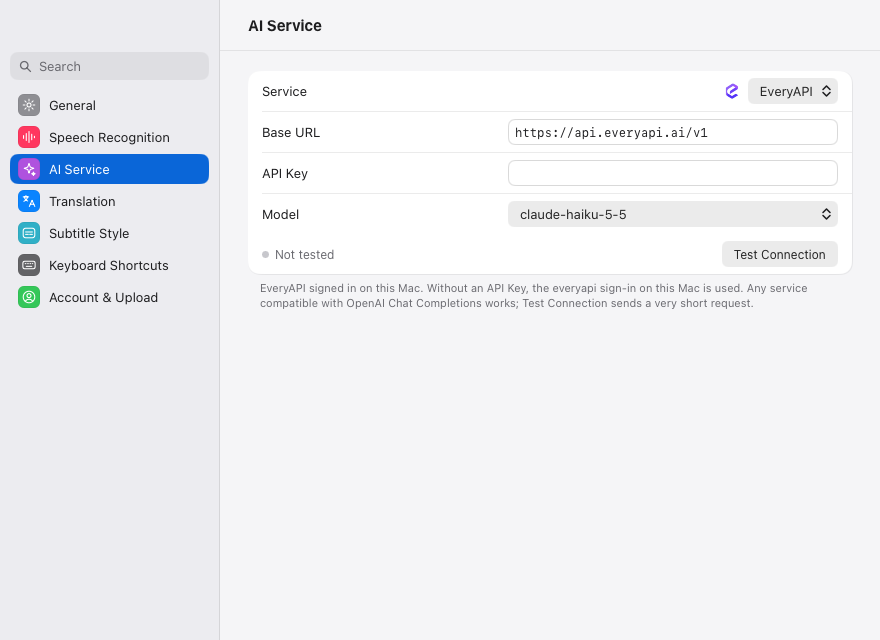
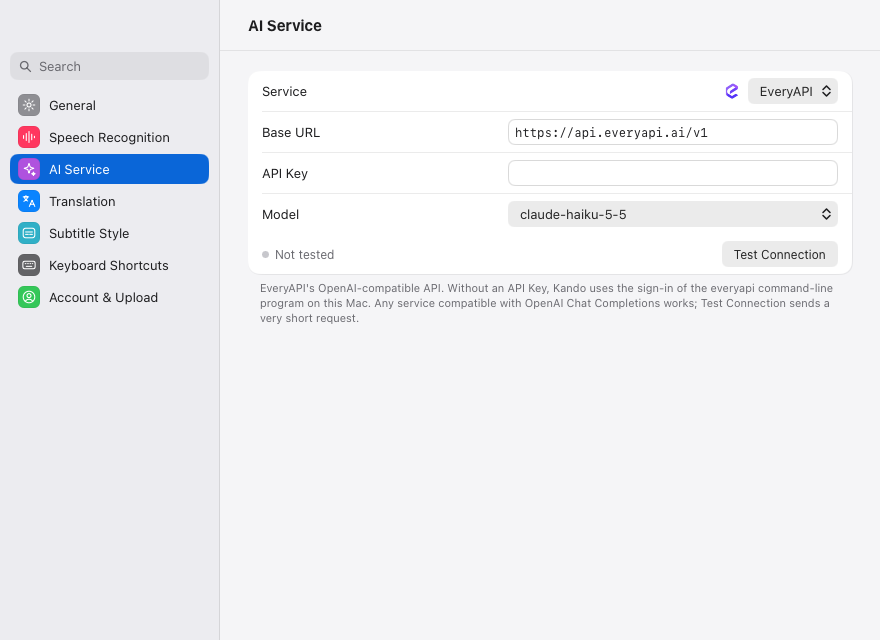
fix(settings): tell everyapi failures apart, keep only the last open error, and refresh the README AI page
- A sign-in that fails for a reason other than a missing or signed-out everyapi (a timeout, a crash, an unknown credential version) now says so in the sidebar and shows what the program said on the AI page, instead of telling the user to run everyapi auth login.
- 获取 EveryAPI keeps only the last press's error, and 重新检测 clears it, so the row says what the program needs now.
- The EveryAPI preset blurb no longer claims a sign-in, which contradicted the missing and signed-out rows.
- Failed cards: tests for a missing everyapi, a signed-out one and the text older library.json records keep.
- docs/assets/*/settings-ai.png regenerated for the new footnote.

Changed region(s): [[0.3068, 0.4375, 0.9511, 0.5]]

diff --git a/apps/kando/locales/catalog_gen.go b/apps/kando/locales/catalog_gen.go
@@ -7038,6 +7038,30 @@ func (msgs Messages) PrecheckEmpty() string {
 	return Catalog.Format(msgs.locale, "precheckEmpty", nil)
 }
 
+// PrecheckEveryAPIFailed says "Couldn't get the sign-in from the everyapi command-line program; see “AI Service”"
+// in the language the app shows.
+//
+// Message bar, the sidebar's status line, the first-run guide and the
+// command palette when the AI service is EveryAPI with no API Key and
+// asking the everyapi command-line program for its sign-in failed for a
+// reason other than it being missing or signed out (it timed out, crashed
+// or answered in a form Kando does not understand). The AI Service page
+// says why. everyapi is the program's name and stays as it is.
+func PrecheckEveryAPIFailed() string { return In(i18n.Locale()).PrecheckEveryAPIFailed() }
+
+// PrecheckEveryAPIFailed says "Couldn't get the sign-in from the everyapi command-line program; see “AI Service”"
+// in the language of msgs.
+//
+// Message bar, the sidebar's status line, the first-run guide and the
+// command palette when the AI service is EveryAPI with no API Key and
+// asking the everyapi command-line program for its sign-in failed for a
+// reason other than it being missing or signed out (it timed out, crashed
+// or answered in a form Kando does not understand). The AI Service page
+// says why. everyapi is the program's name and stays as it is.
+func (msgs Messages) PrecheckEveryAPIFailed() string {
+	return Catalog.Format(msgs.locale, "precheckEveryAPIFailed", nil)
+}
+
 // PrecheckEveryAPIMissing says "Translation needs the everyapi command-line program, or an API Key in “AI Service”"
 // in the language the app shows.
 //
@@ -8946,14 +8970,14 @@ func (msgs Messages) SettingsAIBlurbDeepSeek() string {
 	return Catalog.Format(msgs.locale, "settingsAIBlurbDeepSeek", nil)
 }
 
-// SettingsAIBlurbEveryAPI says "EveryAPI signed in on this Mac"
+// SettingsAIBlurbEveryAPI says "EveryAPI's OpenAI-compatible API"
 // in the language the app shows.
 //
 // What the EveryAPI service is, at the start of the footnote. A phrase; the
 // footnote ends it with a period.
 func SettingsAIBlurbEveryAPI() string { return In(i18n.Locale()).SettingsAIBlurbEveryAPI() }
 
-// SettingsAIBlurbEveryAPI says "EveryAPI signed in on this Mac"
+// SettingsAIBlurbEveryAPI says "EveryAPI's OpenAI-compatible API"
 // in the language of msgs.
 //
 // What the EveryAPI service is, at the start of the footnote. A phrase; the
@@ -9160,6 +9184,26 @@ func SettingsAIEveryAPICLI() string { return In(i18n.Locale()).SettingsAIEveryAP
 // missing or signed out. everyapi is the program's name.
 func (msgs Messages) SettingsAIEveryAPICLI() string {
 	return Catalog.Format(msgs.locale, "settingsAIEveryAPICLI", nil)
+}
+
+// SettingsAIEveryAPIFailed says "Couldn't get the sign-in from it: {error}. Choose Detect Again to try again."
+// in the language the app shows.
+//
+// Under the everyapi command line row when asking the program for its
+// sign-in failed for a reason other than it being missing or signed out.
+// Detect Again is the button beside it (settingsAIRedetect).
+func SettingsAIEveryAPIFailed(error string) string {
+	return In(i18n.Locale()).SettingsAIEveryAPIFailed(error)
+}
+
+// SettingsAIEveryAPIFailed says "Couldn't get the sign-in from it: {error}. Choose Detect Again to try again."
+// in the language of msgs.
+//
+// Under the everyapi command line row when asking the program for its
+// sign-in failed for a reason other than it being missing or signed out.
+// Detect Again is the button beside it (settingsAIRedetect).
+func (msgs Messages) SettingsAIEveryAPIFailed(error string) string {
+	return Catalog.Format(msgs.locale, "settingsAIEveryAPIFailed", map[string]any{"error": error})
 }
 
 // SettingsAIEveryAPIMissing says "Not found on this Mac. Get it from everyapi.ai, then choose Detect Again."

diff --git a/apps/kando/settings_ai_test.go b/apps/kando/settings_ai_test.go
@@ -8,9 +8,11 @@ import (
 	"os"
 	"path/filepath"
 	"slices"
+	"strings"
 	"sync"
 	"testing"
 
+	"kando/apps/kando/films"
 	"kando/apps/kando/locales"
 	"kando/apps/kando/settings"
 	"kando/packages/media"
@@ -307,5 +309,72 @@ func TestGetEveryAPIOpensItsWebsite(t *testing.T) {
 	page.Frame()
 	if want := locales.SettingsAIEveryAPIOpenFailed("no browser"); !page.HasText(want) {
 		t.Fatalf("missing %q in %q", want, page.Texts())
+	}
+
+	// 重新检测 looks for the program again, so the row says what it needs now rather than why the website could not be opened before. The tools are not looked up here, as redetectTools would, because Relook also looks in Homebrew's folders, where this computer may have a real everyapi.
+	a.areasToolsChanged(true)
+	page.Frame()
+	if a.prefs.everyAPIOpenErr != "" || !page.HasText(locales.SettingsAIEveryAPIMissing()) {
+		t.Fatalf("after 重新检测: error %q, texts %q", a.prefs.everyAPIOpenErr, page.Texts())
+	}
+}
+
+// TestGetEveryAPIKeepsOnlyTheLastPress checks that a press of 获取 EveryAPI whose browser answers late, with an error, after a later press opened the website, does not put its error on the page.
+func TestGetEveryAPIKeepsOnlyTheLastPress(t *testing.T) {
+	entered, release := make(chan struct{}), make(chan struct{})
+	var mu sync.Mutex
+	calls := 0
+	saved := everyAPIOpenURL
+	everyAPIOpenURL = func(string) error {
+		mu.Lock()
+		calls++
+		first := calls == 1
+		mu.Unlock()
+		if !first {
+			return nil
+		}
+		close(entered)
+		<-release
+		return errors.New("slow browser")
+	}
+	t.Cleanup(func() { everyAPIOpenURL = saved })
+	a, tt, updates, _ := everyAPIApp(t)
+	page := settingsOpenAt(a, tt, settings.SectionAI)
+	if err := page.Click(locales.SettingsAIGetEveryAPI()); err != nil {
+		t.Fatal(err)
+	}
+	<-entered
+	if err := page.Click(locales.SettingsAIGetEveryAPI()); err != nil {
+		t.Fatal(err)
+	}
+	waitUpdate(t, updates)
+	close(release)
+	waitUpdate(t, updates)
+	page.Frame()
+	if a.prefs.everyAPIOpenErr != "" || page.HasText(locales.SettingsAIEveryAPIOpenFailed("slow browser")) {
+		t.Fatalf("the earlier press's error stayed: %q, texts %q", a.prefs.everyAPIOpenErr, page.Texts())
+	}
+}
+
+// TestEveryAPICLIThatFailsOtherwiseSaysWhat checks that an everyapi that fails for a reason other than nobody being signed in, as a crash, is not reported as signed out: the sidebar points to Settings › AI 服务, which says what the program said.
+func TestEveryAPICLIThatFailsOtherwiseSaysWhat(t *testing.T) {
+	a, tt, updates, bin := everyAPIApp(t)
+	writeFakeScript(t, bin, "everyapi", "echo 'everyapi: config file is corrupt' >&2\nexit 2")
+	a.redetectTools()
+	waitUntil(t, updates, func() bool { return a.side.ready.signInDone })
+	tt.Frame()
+	err := a.side.ready.signInErr
+	if err == nil || errors.Is(err, media.ErrEveryAPISignedOut) || errors.Is(err, media.ErrEveryAPIMissing) {
+		t.Fatalf("sign-in error %v, want another failure", err)
+	}
+	if !tt.HasText(everyAPIFailed()) || tt.HasText(everyAPISignedOut()) {
+		t.Fatalf("sidebar: want %q, texts %q", everyAPIFailed(), tt.Texts())
+	}
+	page := settingsOpenAt(a, tt, settings.SectionAI)
+	if want := locales.SettingsAIEveryAPIFailed(films.Shorten(err.Error(), 160)); !page.HasText(want) || page.HasText(locales.SettingsAIEveryAPISignedOut()) || page.HasText(locales.SettingsAIGetEveryAPI()) {
+		t.Fatalf("AI page: want %q, texts %q", want, page.Texts())
+	}
+	if !strings.Contains(err.Error(), "config file is corrupt") {
+		t.Fatalf("sign-in error %v does not say what the program said", err)
 	}
 }

diff --git a/apps/kando/library_test.go b/apps/kando/library_test.go
@@ -4,6 +4,7 @@ import (
 	"bytes"
 	"context"
 	"errors"
+	"fmt"
 	"image"
 	"image/color"
 	"image/draw"
@@ -792,16 +793,32 @@ func TestNoticeOpensTheSettingThatFixesIt(t *testing.T) {
 }
 
 func TestFailedCardOpensTheSettingThatFixesIt(t *testing.T) {
-	a, tt, _ := newTestApp(&fakePipeline{})
-	a.library.Jobs = []core.Job{{ID: "j", Source: "https://youtu.be/TRWgBxVAb1M", Stage: core.StageFailed, Err: errors.New("check: KANDO_WHISPER_MODEL is not set"), LibraryDir: "/videos"}}
-	tt.Frame()
-	if !tt.HasText(locales.PrecheckNoSpeechModel()) || !tt.HasText("1 个需要处理") {
-		t.Fatalf("texts %q", tt.Texts())
+	for _, tc := range []struct {
+		name    string
+		err     error
+		reason  func() string
+		section string
+	}{
+		{"speech model", errors.New("check: KANDO_WHISPER_MODEL is not set"), locales.PrecheckNoSpeechModel, settings.SectionSpeech},
+		{"everyapi missing at check", fmt.Errorf("check: %w", media.ErrEveryAPIMissing), everyAPIMissing, settings.SectionAI},
+		{"everyapi gone before translate", fmt.Errorf("translate: %w", media.ErrEveryAPIMissing), everyAPIMissing, settings.SectionAI},
+		{"everyapi signed out", fmt.Errorf("translate: %w", media.ErrEveryAPISignedOut), everyAPISignedOut, settings.SectionAI},
+		// What Kando said before it told a missing everyapi from a signed-out one, as a failed job in library.json still says it.
+		{"everyapi legacy text", errors.New("translate: EveryAPI is not signed in; run `everyapi auth login` or set EVERYAPI_API_KEY"), everyAPISignedOut, settings.SectionAI},
+	} {
+		t.Run(tc.name, func(t *testing.T) {
+			a, tt, _ := newTestApp(&fakePipeline{})
+			a.library.Jobs = []core.Job{{ID: "j", Source: "https://youtu.be/TRWgBxVAb1M", Stage: core.StageFailed, Err: tc.err, LibraryDir: "/videos"}}
+			tt.Frame()
+			if !tt.HasText(tc.reason()) || !tt.HasText("1 个需要处理") {
+				t.Fatalf("want %q, texts %q", tc.reason(), tt.Texts())
+			}
+			if err := tt.Click("打开设置"); err != nil {
+				t.Fatal(err)
+			}
+			wantSettings(t, a, tc.section)
+		})
 	}
-	if err := tt.Click("打开设置"); err != nil {
-		t.Fatal(err)
-	}
-	wantSettings(t, a, settings.SectionSpeech)
 }
 
 func TestNewLibrarySheetStaysOpenUntilEscape(t *testing.T) {

diff --git a/apps/kando/settings_test.go b/apps/kando/settings_test.go
@@ -108,7 +108,7 @@ func TestAISettingsSelectsAProvider(t *testing.T) {
 	a.settingsPath = filepath.Join(t.TempDir(), "settings.json")
 	tt.Frame()
 	tt = settingsOpenAt(a, tt, settings.SectionAI)
-	for _, text := range []string{"EveryAPI", "本机已登录的 EveryAPI", "Base URL", "API Key", "模型", "测试连接", "尚未测试"} {
+	for _, text := range []string{"EveryAPI", "EveryAPI 的 OpenAI 兼容接口", "Base URL", "API Key", "模型", "测试连接", "尚未测试"} {
 		if !tt.HasText(text) {
 			t.Fatalf("missing %q in %q", text, tt.Texts())
 		}
@@ -259,7 +259,7 @@ func TestSettingsInEnglish(t *testing.T) {
 	a.syncLLM(tools)
 	a.settingsPath = filepath.Join(t.TempDir(), "settings.json")
 	tt := newSettingsTester(a, settings.SectionAI)
-	for _, text := range []string{"General", "Speech Recognition", "AI Service", "Translation", "Subtitle Style", "Keyboard Shortcuts", "Account & Upload", "Service", "Model", "Test Connection", "Not tested", "EveryAPI signed in on this Mac. Without an API Key, Kando uses the sign-in of the everyapi command-line program on this Mac. Any service compatible with OpenAI Chat Completions works; Test Connection sends a very short request."} {
+	for _, text := range []string{"General", "Speech Recognition", "AI Service", "Translation", "Subtitle Style", "Keyboard Shortcuts", "Account & Upload", "Service", "Model", "Test Connection", "Not tested", "EveryAPI's OpenAI-compatible API. Without an API Key, Kando uses the sign-in of the everyapi command-line program on this Mac. Any service compatible with OpenAI Chat Completions works; Test Connection sends a very short request."} {
 		wantText(t, tt, text)
 	}
 	if settings.Title(settings.SectionLook) != "Subtitle Style" {

diff --git a/apps/kando/settings/ai.go b/apps/kando/settings/ai.go
@@ -42,7 +42,7 @@ func (s screen) ai(c *ui.Context, t *ui.Theme) {
 				s.ApplyLLM()
 			}
 		})
-		if cli := s.EveryAPI(); cli.Missing || cli.Checking || cli.SignedOut {
+		if cli := s.EveryAPI(); cli.Missing || cli.Checking || cli.SignedOut || cli.Failed != "" {
 			form.Separator(c, true)
 			s.everyAPIRow(c, cli)
 		}
@@ -67,7 +67,7 @@ func (s screen) ai(c *ui.Context, t *ui.Theme) {
 	form.Note(c, note, 0)
 }
 
-// everyAPIRow says what the everyapi command-line program, whose sign-in EveryAPI uses without an API Key, still needs: to be installed, with 获取 EveryAPI to open the website it is downloaded from, or to be signed in to in Terminal; 重新检测 looks for it and asks it again afterwards. While Kando asks it whether someone is signed in, the row says so and 重新检测 waits.
+// everyAPIRow says what the everyapi command-line program, whose sign-in EveryAPI uses without an API Key, still needs: to be installed, with 获取 EveryAPI to open the website it is downloaded from, or to be signed in to in Terminal, or what it said when asking it failed otherwise; 重新检测 looks for it and asks it again afterwards. While Kando asks it whether someone is signed in, the row says so and 重新检测 waits.
 func (s screen) everyAPIRow(c *ui.Context, cli EveryAPI) {
 	note := locales.ReadinessCheckingSignIn()
 	switch {
@@ -77,6 +77,8 @@ func (s screen) everyAPIRow(c *ui.Context, cli EveryAPI) {
 		note = locales.SettingsAIEveryAPIMissing()
 	case cli.SignedOut:
 		note = locales.SettingsAIEveryAPISignedOut()
+	case cli.Failed != "":
+		note = locales.SettingsAIEveryAPIFailed(cli.Failed)
 	}
 	form.Row(c, locales.SettingsAIEveryAPICLI(), note, func() {
 		if cli.Missing {

diff --git a/apps/kando/settings_ai.go b/apps/kando/settings_ai.go
@@ -10,6 +10,7 @@ import (
 	"strings"
 	"time"
 
+	"kando/apps/kando/films"
 	"kando/apps/kando/locales"
 	"kando/apps/kando/settings"
 	"kando/packages/media"
@@ -202,10 +203,13 @@ func (a *app) everyAPIStatus() settings.EveryAPI {
 	case a.side.ready.asking:
 		status.Checking = true
 	case a.side.ready.signInDone && a.side.ready.signInErr != nil:
-		if errors.Is(a.side.ready.signInErr, media.ErrEveryAPIMissing) {
+		switch err := a.side.ready.signInErr; {
+		case errors.Is(err, media.ErrEveryAPIMissing):
 			status.Missing = true
-		} else {
+		case errors.Is(err, media.ErrEveryAPISignedOut):
 			status.SignedOut = true
+		default:
+			status.Failed = films.Shorten(err.Error(), 160)
 		}
 	}
 	return status
@@ -213,16 +217,23 @@ func (a *app) everyAPIStatus() settings.EveryAPI {
 
 // getEveryAPI opens EveryAPI's website in the browser off the UI thread, and keeps why it could not for the page to say.
 func (a *app) getEveryAPI() {
-	a.prefs.everyAPIOpenErr = ""
+	a.everyAPIForgetOpen()
+	gen := a.prefs.everyAPIOpenGen
 	update := a.update
 	go func() {
 		err := everyAPIOpenURL(everyAPISite)
 		update(func() {
-			if err != nil {
+			if err != nil && gen == a.prefs.everyAPIOpenGen {
 				a.prefs.everyAPIOpenErr = err.Error()
 			}
 		})
 	}()
+}
+
+// everyAPIForgetOpen drops why 获取 EveryAPI last could not open the website, and the answer of any press still waiting, when it is pressed again or the tools are detected again, so the row says what the program needs now.
+func (a *app) everyAPIForgetOpen() {
+	a.prefs.everyAPIOpenGen++
+	a.prefs.everyAPIOpenErr = ""
 }
 
 func (a *app) testLLM() {

diff --git a/apps/kando/readiness.go b/apps/kando/readiness.go
@@ -33,6 +33,7 @@ var (
 	noLLMModel        = locales.PrecheckNoLLMModel
 	everyAPIMissing   = locales.PrecheckEveryAPIMissing
 	everyAPISignedOut = locales.PrecheckEveryAPISignedOut
+	everyAPIFailed    = locales.PrecheckEveryAPIFailed
 	checkingSignIn    = locales.ReadinessCheckingSignIn
 	checkingTools     = locales.ReadinessCheckingTools
 )
@@ -157,10 +158,13 @@ func everyAPICLIMissing(t media.ChatTranslator) bool {
 	return t.Credential == nil && t.BaseURL == media.EveryAPIBaseURL && t.APIKey == ""
 }
 
-// everyAPISignInFailed is what to do about an everyapi sign-in that failed: install the program when it has gone since it was found, and otherwise sign in to it.
+// everyAPISignInFailed is what to do about an everyapi sign-in that failed: install the program when it has gone since it was found, sign in to it when nobody is, and otherwise read on the AI 服务 page what it said, as when it timed out or crashed.
 func everyAPISignInFailed(err error) func() string {
-	if errors.Is(err, media.ErrEveryAPIMissing) {
+	switch {
+	case errors.Is(err, media.ErrEveryAPIMissing):
 		return everyAPIMissing
+	case errors.Is(err, media.ErrEveryAPISignedOut):
+		return everyAPISignedOut
 	}
-	return everyAPISignedOut
+	return everyAPIFailed
 }

diff --git a/apps/kando/state_settings.go b/apps/kando/state_settings.go
@@ -33,8 +33,9 @@ type settingsUI struct {
 	llmBase         string
 	llmModel        string
 	llmKey          string
-	// everyAPIOpenErr says why 获取 EveryAPI could not open EveryAPI's website, "" when it did or was not pressed.
+	// everyAPIOpenErr says why 获取 EveryAPI could not open EveryAPI's website, "" when it did, was not pressed, or the tools were detected again since. everyAPIOpenGen counts the presses, so only the last one's answer is kept.
 	everyAPIOpenErr string
+	everyAPIOpenGen int
 	// testingLLM is set while the connection test runs; llmTestOK is set when the last one passed and llmTestErr says why it failed. The page words the pass in the language it is shown in (LLMResult).
 	testingLLM bool
 	llmTestOK  bool
@@ -140,8 +141,13 @@ func (a *app) settingsHooks() areaHooks {
 			a.SetInterfaceLanguage(a.prefs.interfaceLanguage)
 			a.loadToolVersions()
 		},
-		toolsChanged: func(bool) { a.findSpeechModels() },
-		afterUpdate:  a.redrawSettings,
+		toolsChanged: func(redetected bool) {
+			a.findSpeechModels()
+			if redetected {
+				a.everyAPIForgetOpen()
+			}
+		},
+		afterUpdate: a.redrawSettings,
 		afterFrame: func() {
 			a.followSettingsPage()
 			a.shareSettings(false)

diff --git a/apps/kando/settings/window.go b/apps/kando/settings/window.go
@@ -22,10 +22,10 @@ const (
 	GroupOther = "other"
 )
 
-// EveryAPI is the state of the everyapi command-line program when the AI service is EveryAPI without an API Key, the zero value otherwise or when nothing is wrong with it. Missing is set when the program is not on this computer, Checking while Kando asks it whether someone is signed in, SignedOut when nobody is. OpenErr says why its website could not be opened.
+// EveryAPI is the state of the everyapi command-line program when the AI service is EveryAPI without an API Key, the zero value otherwise or when nothing is wrong with it. Missing is set when the program is not on this computer, Checking while Kando asks it whether someone is signed in, SignedOut when nobody is. Failed says what went wrong when asking it failed for another reason, as a timeout or a crash. OpenErr says why its website could not be opened.
 type EveryAPI struct {
 	Missing, Checking, SignedOut bool
-	OpenErr                      string
+	Failed, OpenErr              string
 }
 
 // Shortcut is one row of the app's shortcut table, as the 快捷键 page lists it.
